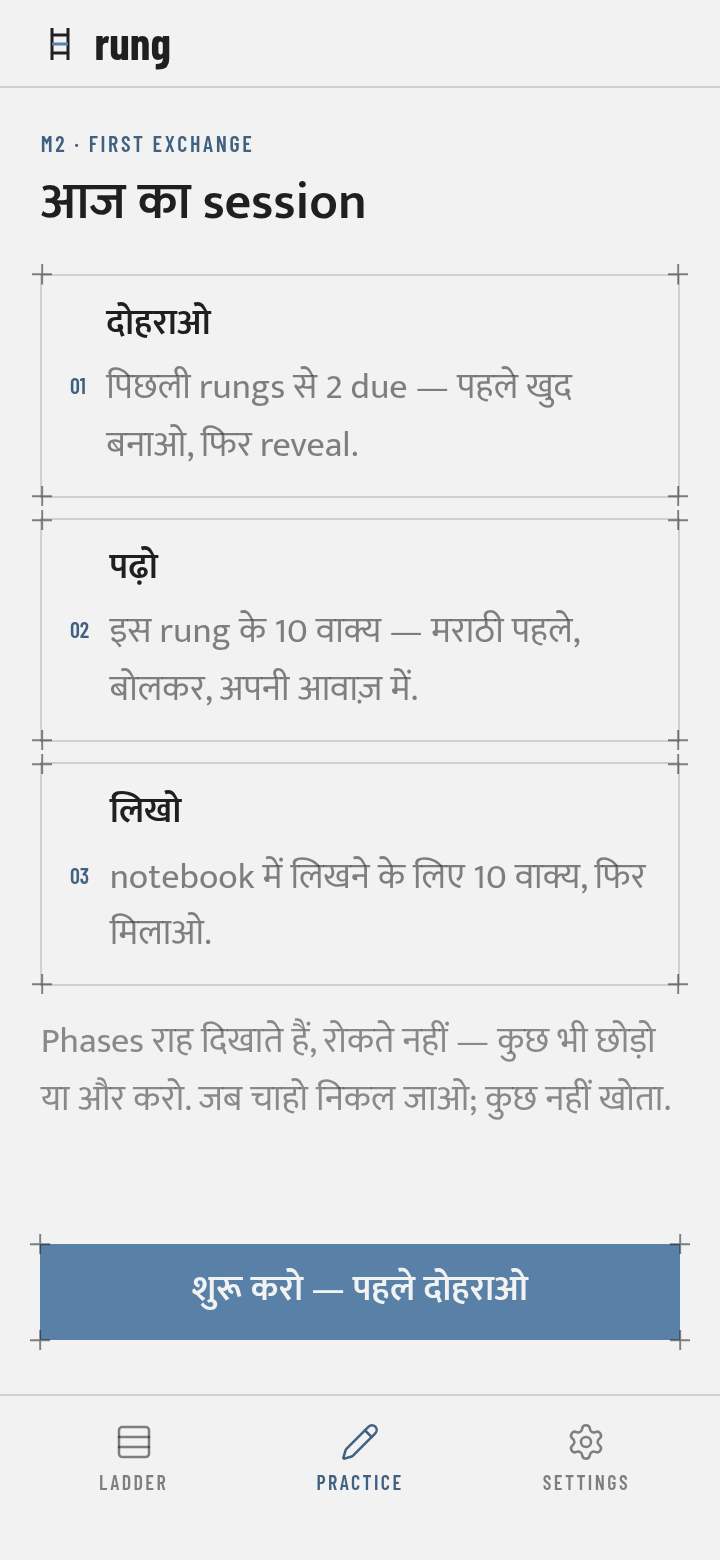
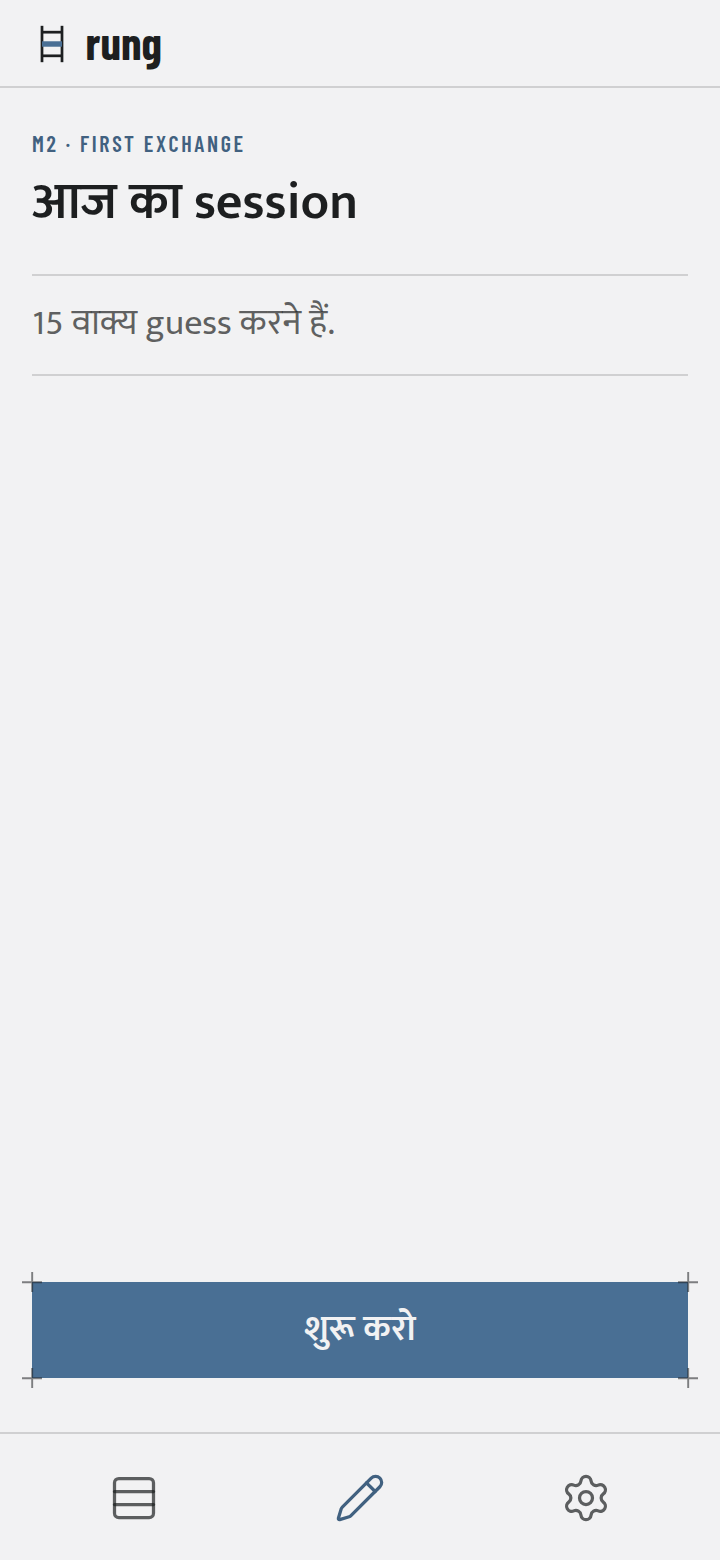
docs: retire the screenshots of a Practice that no longer exists
The session's captures still showed two phases: chips, a Read card with its
pager and cue toggle, a Produce card, a "nothing due" toast and the old resume
banner. Seven of them had no reference left after #388–#391, and the two the
README still pointed at were pictures of the retired UI.

Recaptured at 360px against npm run dev (hi-mr, M2 with M1 passed): the hub,
a revealed card, and the summary. practice-review-360.png becomes
practice-card-360.png — every card is that card now, so the name that called it
a review card was the last thing still saying otherwise.

Claude-Session: https://claude.ai/code/session_01EAdfThPTS7poszHW8yiQLo

diff --git a/README.md b/README.md
@@ -1176,9 +1176,9 @@ That is the whole interaction: no phases, no chips, no pager, no cue toggle, no 
 | `src/screens/practice/Session.tsx` | the session: the cards, the mark routing, the snapshot |
 | `src/screens/practice/SessionSummary.tsx` | the score, and the way on |
 
-| the hub | a card | the summary |
+| the hub | a card, revealed | the summary |
 |---|---|---|
-| [practice-hub-360.png](docs/images/practice-hub-360.png) | [practice-review-360.png](docs/images/practice-review-360.png) | [practice-summary-360.png](docs/images/practice-summary-360.png) |
+| [practice-hub-360.png](docs/images/practice-hub-360.png) | [practice-card-360.png](docs/images/practice-card-360.png) | [practice-summary-360.png](docs/images/practice-summary-360.png) |
 
 - **What a session holds.** The current rung's sentences, whole and in the module's own order —
   ten in every shipped module, never trimmed, because the exit gate needs all of them — plus up to
